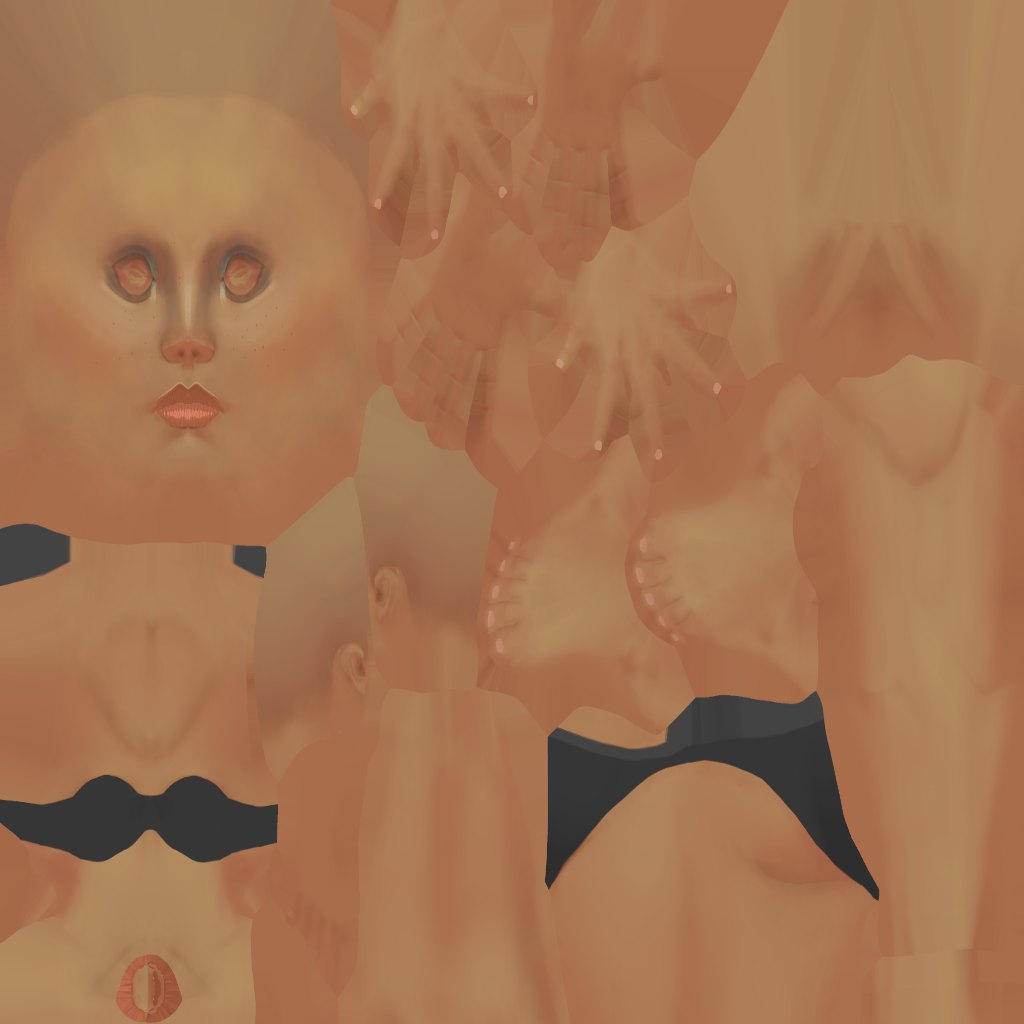
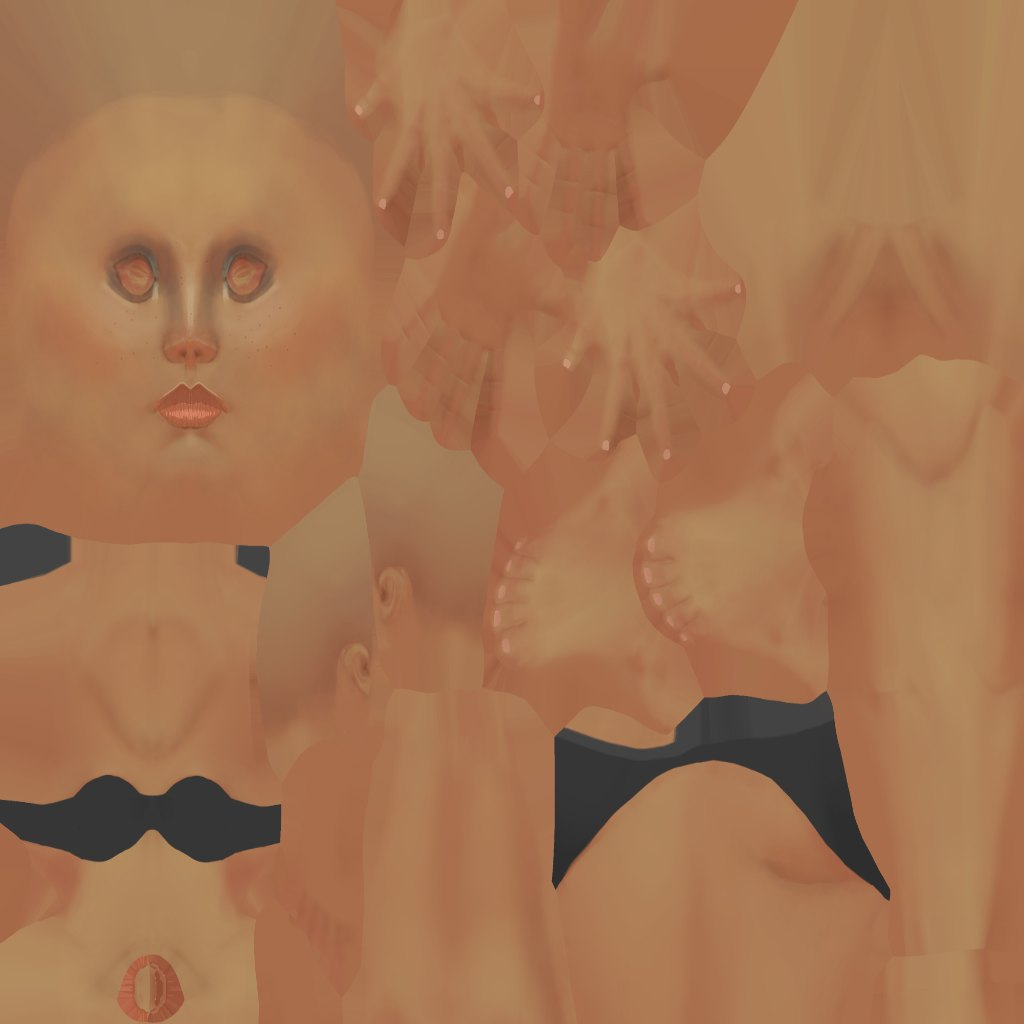
Karmapolis 0.70.1: occhiali sugli occhi, niente collo sporgente, teste più proporzionate
Claude-Session: https://claude.ai/code/session_014aG1BPmnfW4DkrHjrCXBkN

diff --git a/index.html b/index.html
@@ -188,7 +188,7 @@ body.gp #joy{display:none}body.gp #candy::after{content:' LB';font-size:10px;opa
 <div id="copMenu" class="menuov" hidden><div class="card"><h3>👮 Fermato dalla polizia!<small id="copWhy">"Documenti, prego. Può pagare la multa… oppure viene con noi."</small></h3><div class="exl"><button id="copFine" type="button">💸 Paga la multa <small id="copFineTxt"></small></button><button id="copJail" type="button" style="background:#5d5468">🔒 Vado in prigione <small>da solo nessuno può pagarti la cauzione: livello perso</small></button></div></div></div>
 <div id="over" hidden><div class="card"><h2 id="goTitle">Game over</h2><p id="goStars" style="font-size:34px;margin:0 0 6px;letter-spacing:4px"></p><p id="goText"></p><div class="tbtn"><button id="restart" type="button">Ricomincia</button><button id="goNext" type="button" hidden style="background:#3fa66b">Livello successivo ▶</button></div><button id="goHomeBtn" class="ghost" type="button" style="margin-top:8px">🏠 Torna a casa</button></div></div>
 <div class="hud top"><div class="row">
-  <div class="card" id="titleCard"><h1 id='devTitle'>Karmapolis 0.70.0</h1><button id='helpBtn' class='ghost' type='button'>❔ Comandi</button><button id='devReset' type='button' hidden style='background:#e0483e;color:#fff;font-weight:700;margin:4px 0'>🛠 RESET TOTALE (sviluppatore)</button>
+  <div class="card" id="titleCard"><h1 id='devTitle'>Karmapolis 0.70.1</h1><button id='helpBtn' class='ghost' type='button'>❔ Comandi</button><button id='devReset' type='button' hidden style='background:#e0483e;color:#fff;font-weight:700;margin:4px 0'>🛠 RESET TOTALE (sviluppatore)</button>
     <p id='howto'>Joystick (o frecce/WASD) per muoverti. Vicino all'auto o allo scooter premi <b>Sali</b> (tasto E): in guida spingi il joystick dove vuoi andare (da vicino: su = gas, lati = sterzo). Trascina per ruotare la città, pizzica per lo zoom. Vicino ai passanti: 🍬 caramella o la cura giusta (😄 nervosi, 👂 solitari, 🌬 ansiosi, 🗣 pettegoli). Prova anche campane, fontana e panchine in piazza. Tocca per andare, <b>doppio tocco o levetta tutta in fondo per lo scatto</b>.</p></div>
   <div class="card" id="msg">Benvenuto in paese!</div>
 </div></div>
@@ -1482,8 +1482,13 @@ function qHead(c){ const grp=new THREE.Group(), S=c.sex==='f'?'Female':'Male';
   const H=(S==='Male'?QHAIR_M:QHAIR_F)[c.hair]; const hatOn=c.hat>0;
   if(H && !(hatOn && /Buzzed|SimpleParted/.test(H))) add(H,hairMat(hc),true);
   if(c.beard>0 && S==='Male') add('Hair_Beard',hairMat(bc),true);
-  const ex=avHead({...c,_extraOnly:true}); if(ex.children.length) grp.add(ex);
-  grp.userData.cfg={...c}; return grp; }
+  const ex=avHead({...c,_extraOnly:true,glasses:0}); if(ex.children.length) grp.add(ex); // cappelli e orecchini
+  // occhiali: le teste vecchie avevano gli occhi più avanti; qui gli occhi sono a z≈0.11 (gli occhiali erano a 0.17 e galleggiavano davanti al viso)
+  if(c.glasses>0){ const gl=avHead({...c,_extraOnly:true,hat:0,earrings:0}); gl.position.set(0,0.012,-0.037); grp.add(gl); }
+  // proporzioni (Teo: "proporziona bene la testa col corpo"): le teste vecchie erano grandi apposta; queste sono realistiche → più piccole, appoggiate sul collo
+  const k=QH_SCALE; grp.scale.setScalar(k); grp.position.set(0,-(1-k)*0.17,-0.012); // (dentro un gruppo: mountHead sovrascrive scala e posizione del gruppo esterno)
+  const out=new THREE.Group(); out.add(grp); out.userData.cfg={...c}; return out; }
+const QH_SCALE=0.8;
 // monta la testa sul collo del manichino (in posa di riposo, così resta dritta)
 function mountHead(bones,root,cfg){ const head=avHead(cfg); const hp=bones.Head.getWorldPosition(new THREE.Vector3()); hp.y+=0.075; const nq=bones.Neck.getWorldQuaternion(new THREE.Quaternion()), gq=root.getWorldQuaternion(new THREE.Quaternion()), ns=bones.Neck.getWorldScale(new THREE.Vector3()); hp.y+=0.02;
   bones.Neck.add(head); head.position.copy(bones.Neck.worldToLocal(hp)); head.quaternion.copy(nq.invert().multiply(gq)); head.scale.setScalar(1.32/ns.x); return head; }
